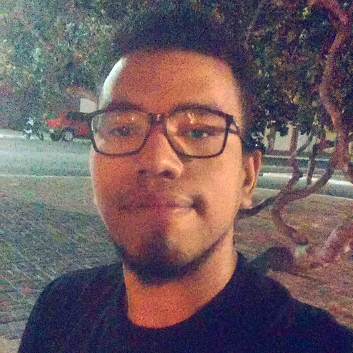
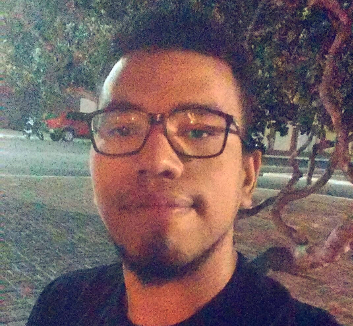
ajuste de fotos

diff --git a/_contatinhos/larissamoreira.md b/_contatinhos/larissamoreira.md
@@ -1,6 +1,6 @@
 ---
 nome: Larissa Moreira
-avatar: larissamoreira.jpg
+avatar: larissamoreira.png
 tagline: A menina que usou uma camiseta com um desenho de uma banana.
 contato: https://github.com/larissamoreira
 cor: style3
